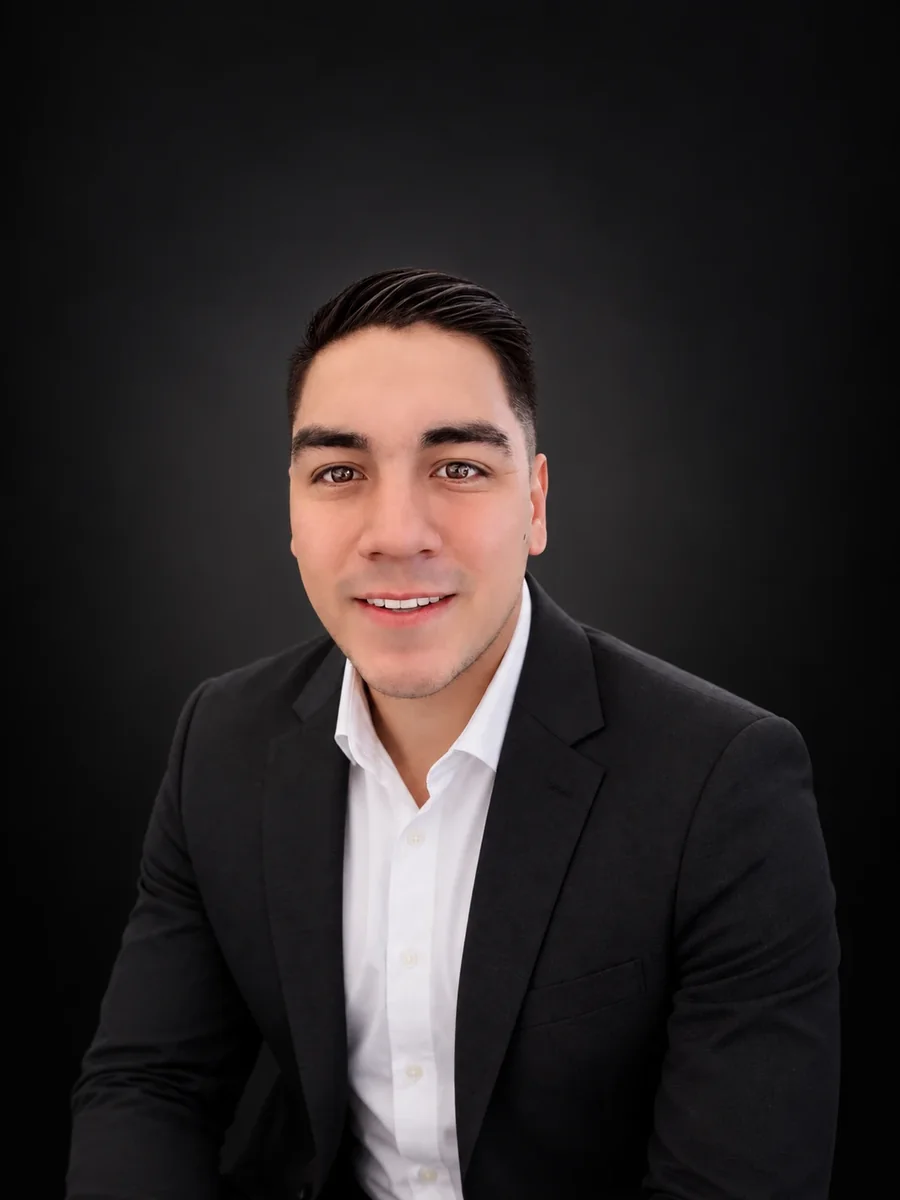
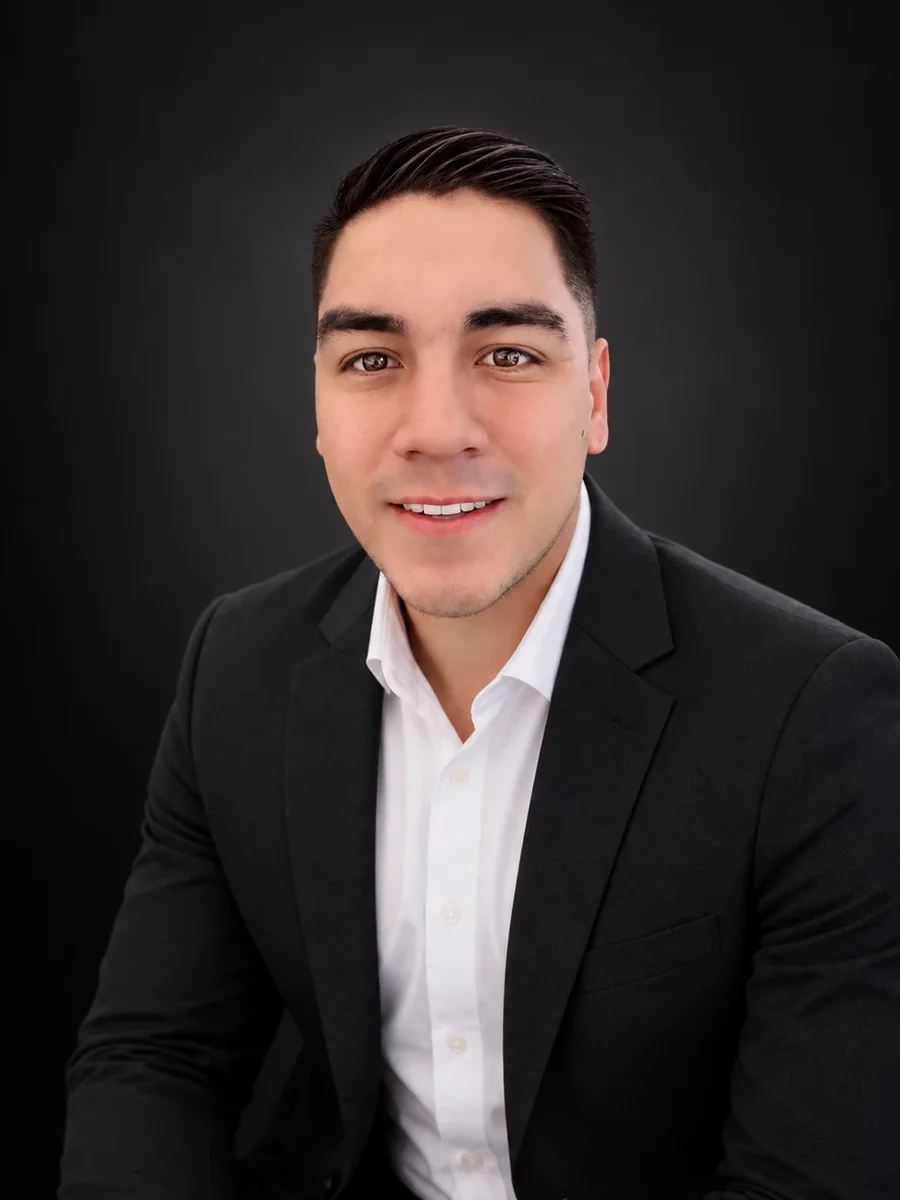
feat(ecos): Zack a la altura de los demás, con su presentación
Su foto es un plano más cerrado: el traje se corta enseguida y la cabeza
quedaba baja en la tarjeta. El recorte ahora termina donde termina la foto y
se acerca lo justo para que el pelo empiece a la misma altura que el de Holman
y el de Ingrid.

diff --git a/src/pages/Ecos.tsx b/src/pages/Ecos.tsx
@@ -128,7 +128,7 @@ const PROFES: { nombre: string; materia: string; foto: string; iniciales: string
     materia: "Ventas",
     foto: "/profesores/zack.webp",
     iniciales: "Z",
-    bio: "Especialista en ventas. Enseña la estructura de una oferta que se entiende, la conversación que llega al sí y cómo responder a las objeciones reales.",
+    bio: "Encargado de ventas en Holman Global Group, coach ejecutivo y ontológico. Forma y acompaña a dueños de marca personal para que vendan con estructura y confianza, combinando experiencia comercial real con herramientas de coaching. Diseña e imparte programas de venta consultiva enfocados en resultados concretos, no en teoría.",
   },
   {
     nombre: "Ingrid",
